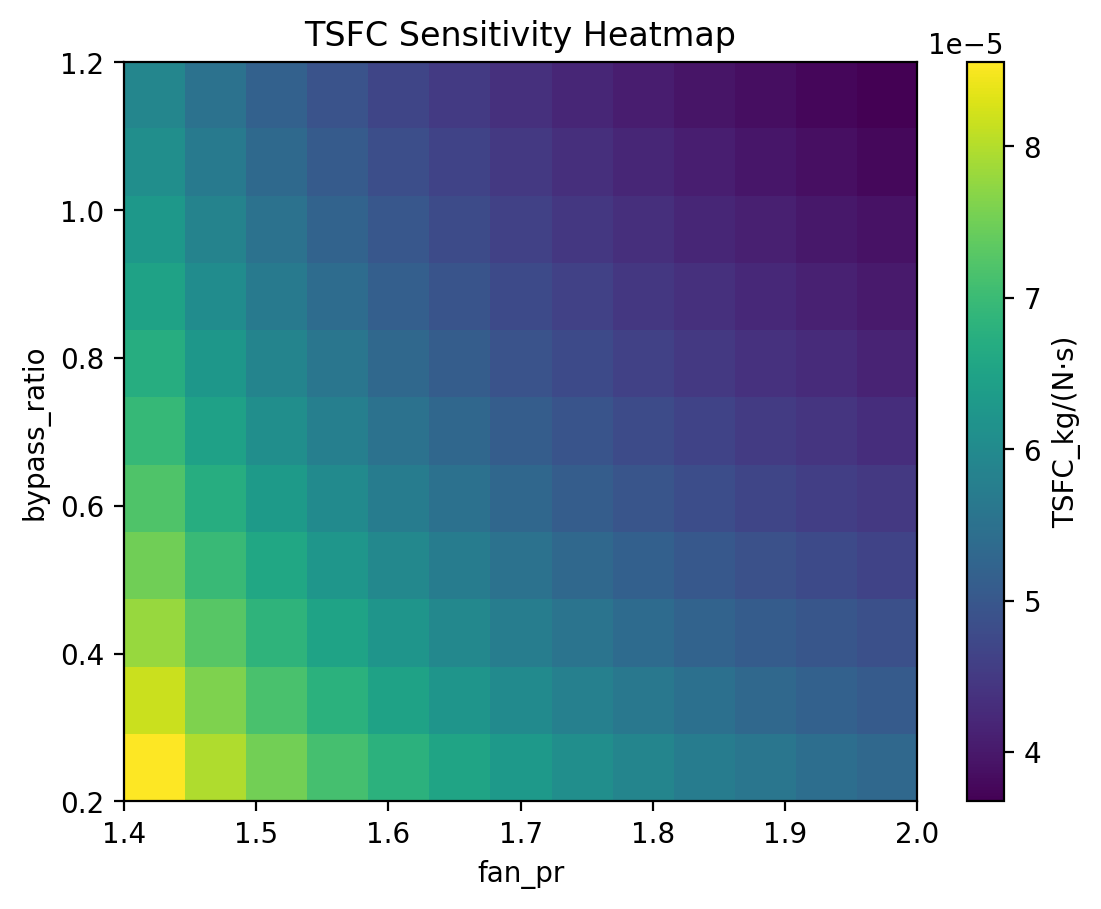
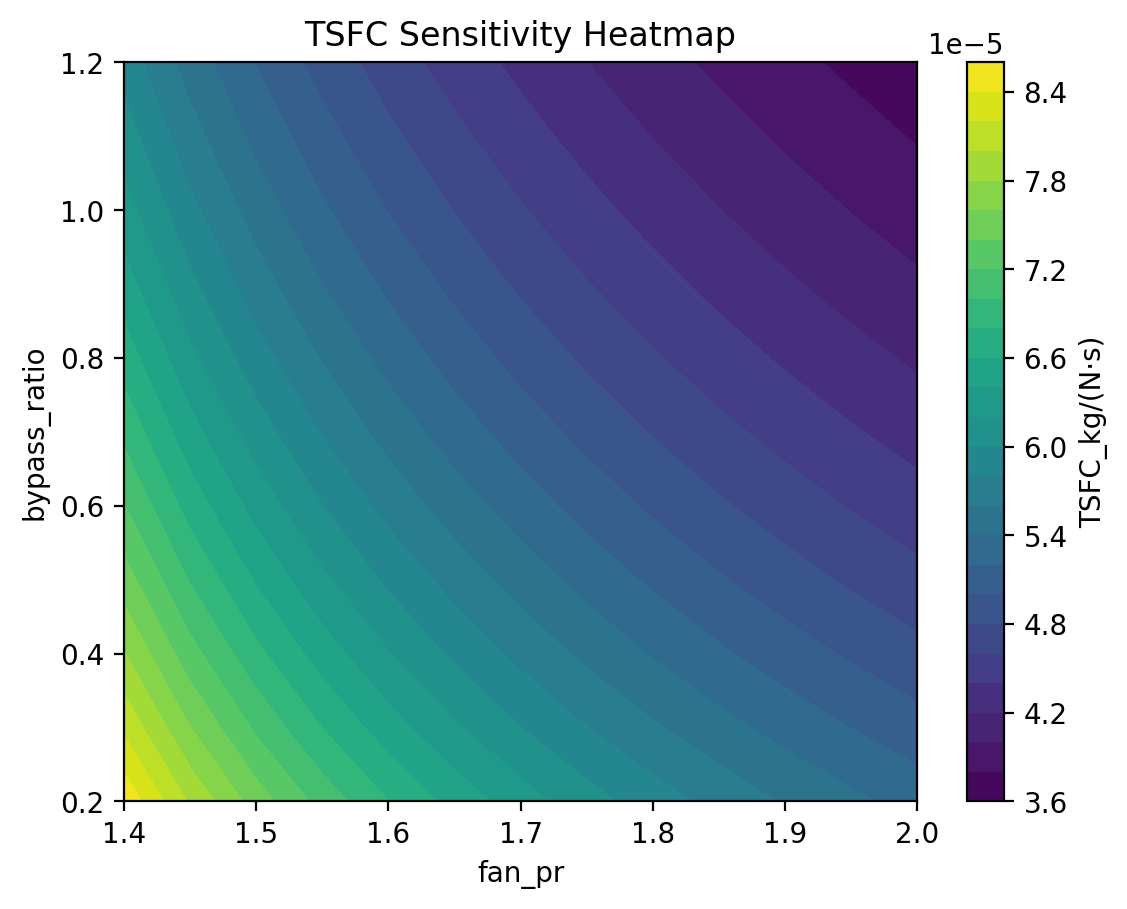
updated heatmap smoothness

diff --git a/tools/sensitivity.py b/tools/sensitivity.py
@@ -226,49 +226,6 @@ def plot_1d(
     return fig, ax
 
 
-def plot_2d_heatmap(
-    grid: np.ndarray,
-    x_values: Iterable[float],
-    y_values: Iterable[float],
-    *,
-    title: str | None = None,
-    xlabel: str | None = None,
-    ylabel: str | None = None,
-    cbar_label: str | None = None,
-    savepath: str | None = None,
-):
-    """
-    2D heatmap using imshow with matplotlib defaults.
-    Rows correspond to y_values, columns to x_values.
-    """
-    xs = np.asarray(list(x_values), dtype=float)
-    ys = np.asarray(list(y_values), dtype=float)
-
-    fig, ax = plt.subplots()
-
-    # extent ensures axes show actual parameter values
-    extent = [xs.min(), xs.max(), ys.min(), ys.max()]
-    im = ax.imshow(
-        grid,
-        origin="lower",
-        aspect="auto",
-        extent=extent,
-        interpolation="nearest",
-    )
-    ax.set_xlabel(xlabel or "x")
-    ax.set_ylabel(ylabel or "y")
-    if title:
-        ax.set_title(title)
-
-    cbar = fig.colorbar(im, ax=ax)
-    if cbar_label:
-        cbar.set_label(cbar_label)
-
-    if savepath:
-        fig.savefig(savepath, dpi=200, bbox_inches="tight")
-    return fig, ax
-
-
 def save_sweep_to_excel(
     df: pd.DataFrame,
     filepath: str,
@@ -285,3 +242,43 @@ def save_sweep_to_excel(
             meta_df = pd.DataFrame([{"name": k, "value": v} for k, v in metadata.items()])
             meta_df.to_excel(w, index=False, sheet_name="metadata")
     return filepath
+
+def plot_2d_heatmap(
+    grid: np.ndarray,
+    x_values: Iterable[float],
+    y_values: Iterable[float],
+    *,
+    levels: int = 30,
+    title: str | None = None,
+    xlabel: str | None = None,
+    ylabel: str | None = None,
+    cbar_label: str | None = None,
+    savepath: str | None = None,
+):
+    """
+    Smooth filled contour plot using matplotlib contourf.
+    """
+
+    xs = np.asarray(list(x_values), dtype=float)
+    ys = np.asarray(list(y_values), dtype=float)
+
+    X, Y = np.meshgrid(xs, ys)
+
+    fig, ax = plt.subplots()
+
+    contour = ax.contourf(X, Y, grid, levels=levels)
+
+    ax.set_xlabel(xlabel or "x")
+    ax.set_ylabel(ylabel or "y")
+
+    if title:
+        ax.set_title(title)
+
+    cbar = fig.colorbar(contour, ax=ax)
+    if cbar_label:
+        cbar.set_label(cbar_label)
+
+    if savepath:
+        fig.savefig(savepath, dpi=200, bbox_inches="tight")
+
+    return fig, ax

diff --git a/sensitivitiy_sweep.py b/sensitivitiy_sweep.py
@@ -1,5 +1,5 @@
 import numpy as np
-from tools.sensitivity import SensitivityAnalyzer, plot_1d, save_sweep_to_excel
+from tools.sensitivity import SensitivityAnalyzer, plot_1d, plot_2d_contour, save_sweep_to_excel
 from engine import Ambient, TurbofanEngine
 from main import build_f135_engine
 
